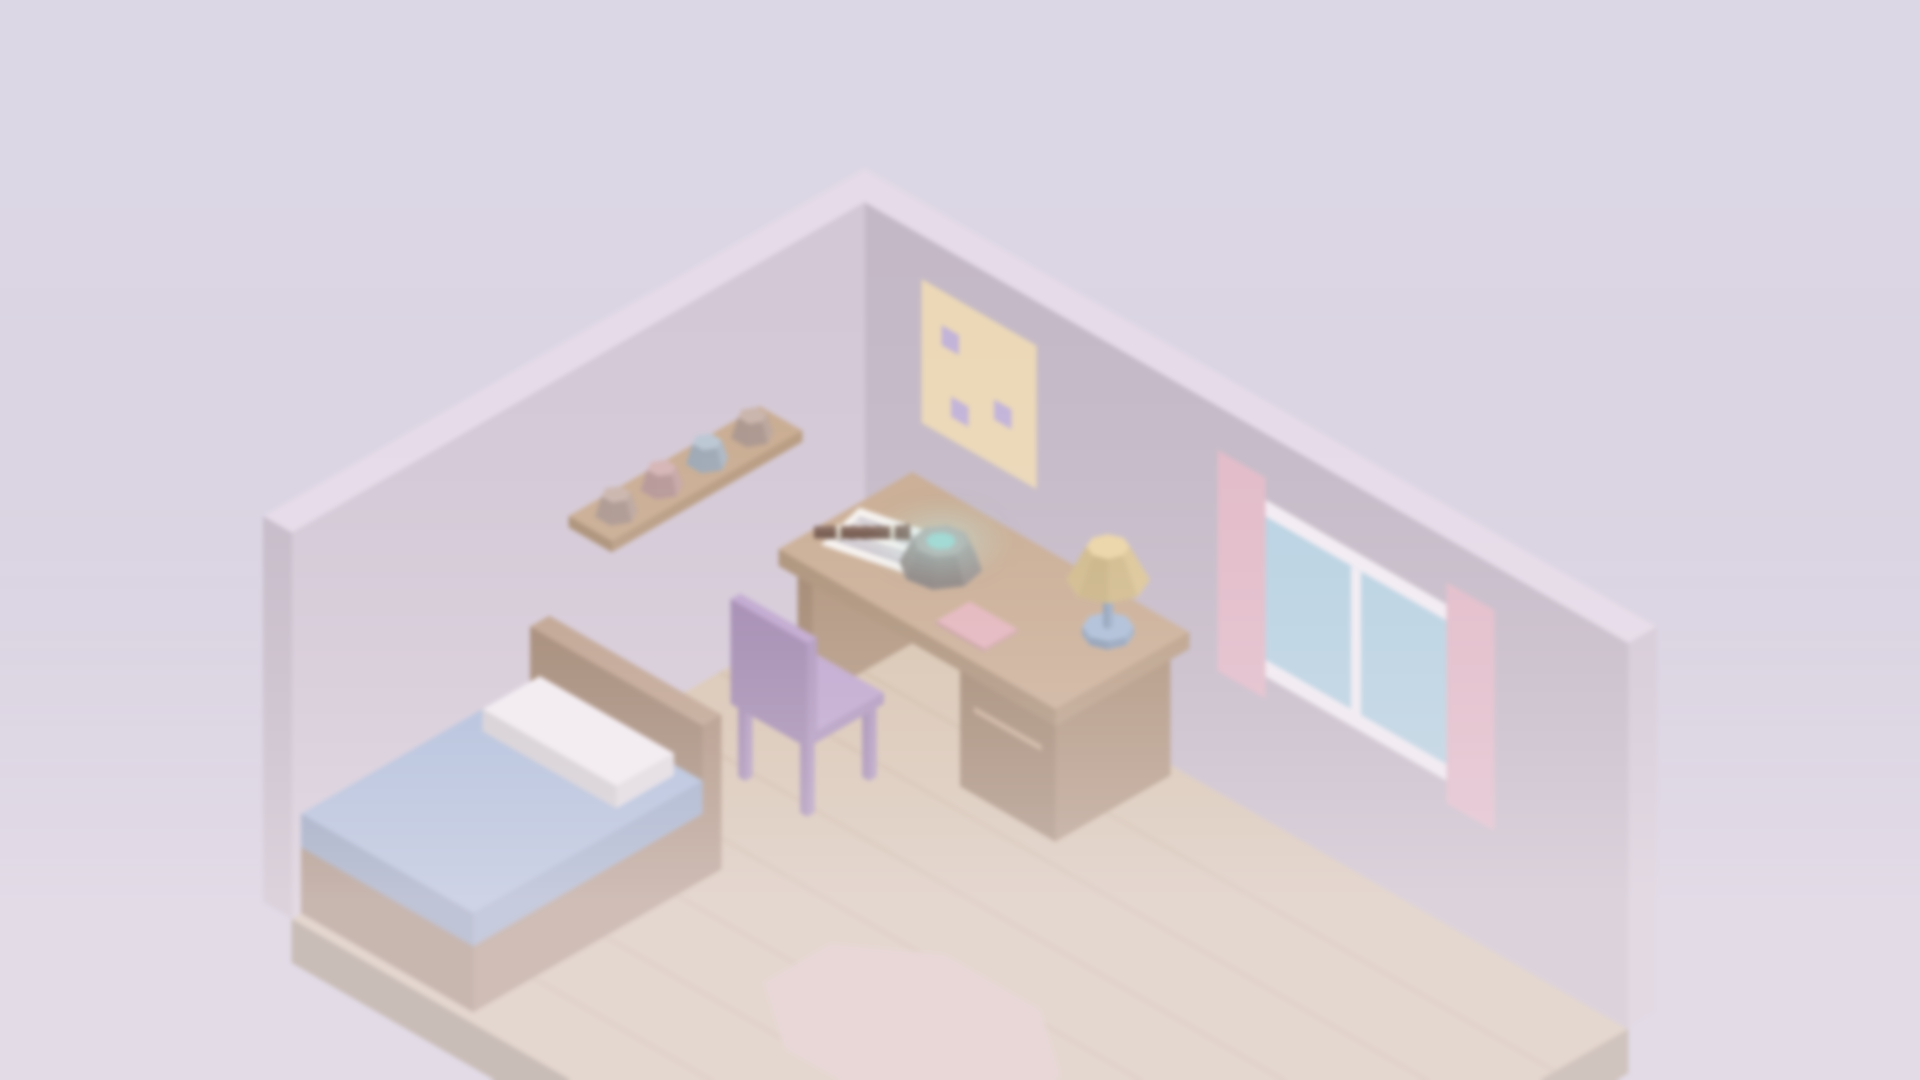
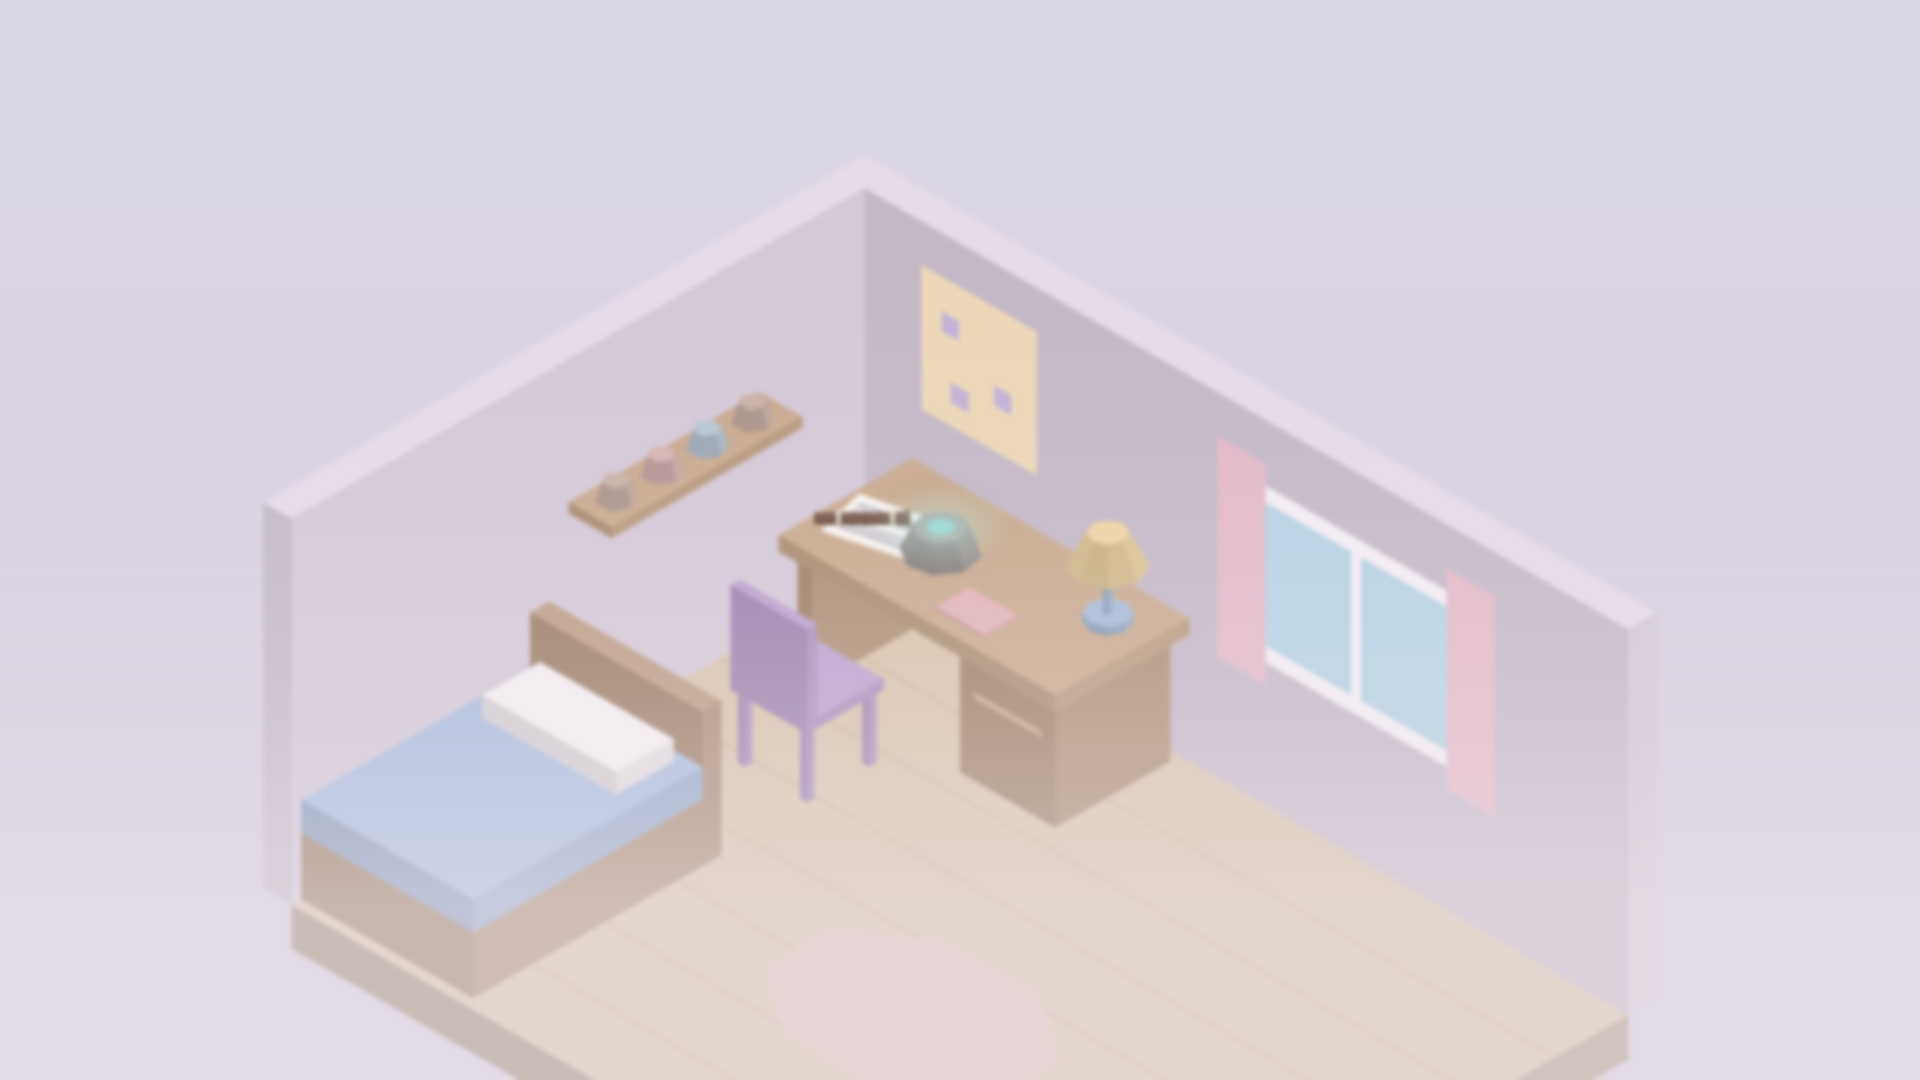
Keep small story buttons 24 apart and anchor the new backgrounds
Story buttons are smaller than the 48 standard, so the choices, the named-action
row and the Previous and Next row keep SMALL_BUTTON_GAP 24 between faces in any
direction, a 60 pitch with full 48 press areas. Ada's waking sprite and the rock
set the morning band. Needle's recorder room and concert hall rise 7 rows, with
Ada's playing sprite, so their bands end by row 293, and the four new
backgrounds join the run placement table at Gameplay's limit. The cockpit keeps
its 0.85 ship and the crop under Astra's questions.

diff --git a/art/tools/storybook.ts b/art/tools/storybook.ts
@@ -440,7 +440,15 @@ interface RoomOptions {
   figures?: { colours: Colours; pose: Pose };
   // Needle's recorder on its song sheet at the desk's left end.
   recorder?: boolean;
+  // Canvas rows to raise the whole room by, so its subject band ends by row 293.
+  lift?: number;
 }
+
+// Design px per logical canvas px (the canvas is the design frame at 360 / 390).
+const DESIGN_PER_LOGICAL = DESIGN.height / 360;
+// Needle's scenes rise 7 rows, so the desk's recorder and rock and the stage end by row 293 and
+// clear the strip above a story panel at Gameplay's longest page.
+const NEEDLE_LIFT = 7;
 
 // The recorder lying on the desk, mouthpiece to the left, along screen-horizontal (x - y).
 function recorder(
@@ -463,10 +471,10 @@ function recorder(
 
 function room(
   P: Palette,
-  { figures, glow, moon, recorder: withRecorder }: RoomOptions = {},
+  { figures, glow, moon, recorder: withRecorder, lift = 0 }: RoomOptions = {},
 ): Scene {
   const [nx, ny, wall] = [16, 12, 7];
-  const s = fitted(nx, ny, wall);
+  const s = fitted(nx, ny, wall, 12 - lift * DESIGN_PER_LOGICAL);
   s.solid(box(0, nx, 0, ny, -0.8, 0), P.slab!, 0, 0);
   const planks: Decal[] = [1, 2, 3, 4, 5, 6, 7].map((j) => [
     onZ(0.001, 0, nx, j * 1.5, j * 1.5 + 0.08),
@@ -1286,7 +1294,10 @@ function piano(s: Scene, P: Palette, x0: number, y0: number, z: number, key: num
 function concertHall(P: Palette): Scene {
   const [nx, ny, wall] = [22, 18, 8];
   const k = CONCERT_K;
-  const s = new Scene(k, [W / 2 - ((nx - ny) * R3 * k) / 2 + 30, 6 + wall * k]);
+  const s = new Scene(k, [
+    W / 2 - ((nx - ny) * R3 * k) / 2 + 30,
+    6 - NEEDLE_LIFT * DESIGN_PER_LOGICAL + wall * k,
+  ]);
   s.solid(box(0, nx, 0, ny, -0.8, 0), P.slab!, 0, 0);
   const boards: Decal[] = [];
   for (let j = 1; j < ny / 1.5; j++)
@@ -1475,8 +1486,8 @@ export const BACKGROUNDS: readonly Background[] = [
   {
     id: "story-ada-room-recorder",
     palette: ROOM,
-    build: (P) => room(P, { glow: glowAmount(0), recorder: true }),
-    subject: band(255, 300),
+    build: (P) => room(P, { glow: glowAmount(0), lift: NEEDLE_LIFT, recorder: true }),
+    subject: band(248, 293),
   },
   ...GLOW.map((glow, i) => ({
     id: `story-ada-room-recorder-glow-${i + 1}`,
@@ -1489,7 +1500,7 @@ export const BACKGROUNDS: readonly Background[] = [
     id: "story-concert-hall",
     palette: CONCERT,
     build: concertHall,
-    subject: band(195, 300),
+    subject: band(188, 293),
     overlays: [PLAYING_ID],
   },
   // Andromeda: the seedling tray on the potting table, spilled, then replanted.
@@ -1512,12 +1523,12 @@ export const BACKGROUNDS: readonly Background[] = [
     build: (P) => night(P, NIGHT_GLOW),
     subject: band(250, 300),
   },
-  // Ada stretching on the bed and the rock on the desk.
+  // Ada's waking sprite on the bed (rows 264 to 348) and the rock on the desk.
   {
     id: "story-ada-room-morning",
     palette: MORNING,
     build: morning,
-    subject: band(245, 350),
+    subject: band(255, 348),
     overlays: [WAKING_ID],
   },
 ];

diff --git a/art/storybook.md b/art/storybook.md
@@ -78,7 +78,9 @@ Full palettes are in the generator. Colours are before treatment d.
 - Needle opens and resolves in `story-ada-room-recorder`: the recorder lies on
   its song sheet at the desk's free left end, left of the rock, so the rock
   stays the brightest point. It closes in `story-concert-hall`, the stage seen
-  from the hall, with Ada playing in the spotlight.
+  from the hall, with Ada playing in the spotlight. The recorder room draws Ada's
+  room 7 rows higher and the concert hall rises 7 rows too, so both subjects end
+  by row 293.
 - Andromeda opens, resolves and closes in Grandma's garden with a potting table
   on the lawn by the house and a green tray of eight terracotta pots on it.
   `story-grandma-garden-spilled` (the opening, its branch pages and the
@@ -154,11 +156,11 @@ at most the panel top + 180; at 720x405 the limit is the panel top + 135.
 | `story-school-hallway`           | 184..290 | The notice board beside the near door                  |
 | `story-front-door`               | 175..280 | The coats and Penny's lead on their hooks by the door  |
 | `story-ada-room-night`           | 250..300 | The rock's glow on the desk; the sleep scene shares it |
-| `story-ada-room-morning`         | 245..350 | Ada stretching on the bed, the rock on the desk        |
+| `story-ada-room-morning`         | 255..348 | Ada's waking sprite on the bed, the rock on the desk   |
 | `cockpit`                        | 175..298 | The canopy dome                                        |
 | `cockpit-seated`                 | 175..298 | The canopy dome                                        |
-| `story-ada-room-recorder`        | 255..300 | The rock and the recorder on the desk                  |
-| `story-concert-hall`             | 195..300 | The stage, the piano and Ada in the spotlight          |
+| `story-ada-room-recorder`        | 248..293 | The rock and the recorder on the desk                  |
+| `story-concert-hall`             | 188..293 | The stage, the piano and Ada in the spotlight          |
 | `story-grandma-garden-spilled`   | 176..285 | The seedling tray on the potting table and the beds    |
 | `story-grandma-garden-replanted` | 176..285 | The seedling tray on the potting table and the beds    |
 
@@ -167,11 +169,13 @@ rows and the tallest panel's top, at 720x360 with insets 43/43/0/19, 844x390
 with the same insets, and 1280x720 (720x405). A star marks a clamped
 placement. Runs: the first launch (chapter one's opening, then the prologue),
 a visit (a waiting chapter scene, Ada's room, boarding), the empty visit and
-the jump home (night, morning, then the visit).
+the jump home (night, morning, then the visit). The four new backgrounds have
+no pages yet; their rows assume a chapter page at Gameplay's limit (218
+characters, the heading and two choices).
 
 | Background, runs                                                    | 720x360, insets                 | 844x390, insets                 | 1280x720                        |
 | ------------------------------------------------------------------- | ------------------------------- | ------------------------------- | ------------------------------- |
-| `story-grandma-garden`, first launch                                | y -180*: 15..110, top 113       | y -180*: 15..110, top 113       | y -135*: 60..155, top 161       |
+| `story-grandma-garden`, first launch                                | y -180*: 19..105, top 113       | y -180*: 19..105, top 113       | y -135*: 64..150, top 161       |
 | `story-park`, first launch                                          | y -138: 82..147, top 229        | y -134: 86..151, top 237        | y -110: 110..175, top 285       |
 | `story-ada-room-unpolished`, first launch                           | y -162: 93..138, top 231        | y -162: 93..138, top 231        | y -135*: 120..165, top 279      |
 | `story-ada-room`, every visit, first launch, empty visit, jump home | y -171: 84..129, top 213        | y -171: 84..129, top 213        | y -135*: 120..165, top 261      |
@@ -184,14 +188,20 @@ the jump home (night, morning, then the visit).
 | `story-front-door`, visit, chapter 3 opening                        | y -171: 4..109, top 113         | y -171: 4..109, top 113         | y -135*: 40..145, top 161       |
 | `story-park`, visit, chapter 3 resolution                           | y -180*: 40..105, top 143       | y -176: 44..109, top 153        | y -135*: 85..150, top 201       |
 | `story-ada-room-night`, jump home                                   | y -146.5: 103.5..153.5, top 257 | y -146.5: 103.5..153.5, top 257 | y -122.5: 127.5..177.5, top 305 |
-| `story-ada-room-morning`, jump home                                 | y -169: 76..181, top 257        | y -169: 76..181, top 257        | y -135*: 110..215, top 305      |
+| `story-ada-room-morning`, jump home                                 | y -173: 82..175, top 257        | y -173: 82..175, top 257        | y -135*: 120..213, top 305      |
+| `story-ada-room-recorder`, new chapter at the limit                 | y -180*: 68..113, top 113       | y -180*: 68..113, top 113       | y -135*: 113..158, top 161      |
+| `story-concert-hall`, new chapter at the limit                      | y -180*: 8..113, top 113        | y -180*: 8..113, top 113        | y -135*: 53..158, top 161       |
+| `story-grandma-garden-spilled`, new chapter at the limit            | y -174: 2..111, top 113         | y -174: 2..111, top 113         | y -135*: 41..150, top 161       |
+| `story-grandma-garden-replanted`, new chapter at the limit          | y -174: 2..111, top 113         | y -174: 2..111, top 113         | y -135*: 41..150, top 161       |
 
-Every band clears its panel at these views except the cockpit's: under
-Astra's three questions (panel top 93 at 360-high views, 141 at 720x405) the
-123-row canopy is taller than the 93 strip, and the clamp holds the canvas
-at its lowest, so 25 rows of the dome's underside go under the panel and 5
-above the view, and 22 under the panel at 720x405. At 0.6 with the canopy
-focus 15 rows higher the dome spans about 175..262 and clears both.
+Every band in the current runs clears its panel at these views except the
+cockpit's under Astra's three questions, a crop kept by design: the ship stays
+at 0.85, and with the panel top at 93 at 360-high views (141 at 720x405) the
+123-row dome loses 25 rows under the panel and 5 above the view, and 22 under
+the panel at 720x405. Every other cockpit page shows the whole dome. At
+Gameplay's limit the four new backgrounds clear too: Needle's recorder room
+and concert hall rise 7 rows so their bands end by row 293, the lowest visible
+row under a 218-character page at 360-high views.
 
 ## Ada's sprites
 
@@ -205,7 +215,7 @@ and `sampling: "nearest"`.
 
 | Id                  | Size (px) | `scale` | `at`       | Background               | Pose                                        |
 | ------------------- | --------- | ------- | ---------- | ------------------------ | ------------------------------------------- |
-| `story-ada-playing` | 44 x 56   | 1       | (480, 228) | `story-concert-hall`     | Playing the recorder, feet on the spotlight |
+| `story-ada-playing` | 44 x 56   | 1       | (480, 221) | `story-concert-hall`     | Playing the recorder, feet on the spotlight |
 | `story-ada-waking`  | 48 x 42   | 2       | (249, 264) | `story-ada-room-morning` | Stretching and yawning, kneeling in bed     |
 
 - Scale: one sprite px is 1 logical px in the concert hall and 2 in Ada's room,
@@ -317,8 +327,8 @@ night haze (coat `#b57100` before treatment), and morning
   stretching, the `story-ada-waking` sprite.
 
 On the 844 by 390 phone with insets the morning page's panel top is at logical
-y 257 and its background at canvas top -169: the rock's top (109), Ada's sprite
-(top 95, chin 139) and Penny's head (194) all clear the panel. The sleep scene
+y 257 and its background at canvas top -173: the rock's top (105), Ada's sprite
+(top 91, chin 135) and Penny's head (190) all clear the panel. The sleep scene
 shows no panel and keeps the night page's placement (-146.5), so both figures
 stay in view (Ada 206.5, Penny 261.5).
 

diff --git a/art/layout.md b/art/layout.md
@@ -541,7 +541,7 @@ Constants: `STORY_PANEL` and `STORY_BACKGROUND`, `storyPage.ts`;
 | Name tab       | `CONVERSATION_BOX.tab`: 20 high, label width + `2 * SPACING.markGap`, 1 ink edge, radius 2, `TYPE.label` in ink                                                                                                                                                                              | The speaker's tab colour ([Controls](controls.md#conversation-box)); the column's first line, `SPACING.gap` above the paragraph                                                                                                                                                                                |
 | Portrait       | `STORY_PANEL.portrait`: the 32 storybook frame at 2x (64), nearest neighbour, in a 68 frame (2 ink edge, navy `#262b44` face)                                                                                                                                                                | Floated on the column top: at the inner right for every speaker but Ada, at the inner left for Ada; never mirrored                                                                                                                                                                                             |
 | Portrait gap   | `SPACING.gap` to the text, `SPACING.rowGap` below                                                                                                                                                                                                                                            | The name tab and the paragraph wrap beside the frame, then take the full measure below it                                                                                                                                                                                                                      |
-| Choices        | `STORY_BUTTON` secondary, filling the choice column, stacked from its top, faces `SMALL_BUTTON_GAP` 24 apart (a 60 pitch)                                                                                                                                                                    | `hitAround` grows a 36 face 9 per side (54), so neighbouring press areas stay 6 apart                                                                                                                                                                                                                          |
+| Choices        | `STORY_BUTTON` secondary, filling the choice column, stacked from its top, faces `SMALL_BUTTON_GAP` 24 apart (a 60 pitch)                                                                                                                                                                    | `hitAround` grows a 36 face 9 per side (54), so neighbouring press areas stay 6 apart, each at least `HIT_RULE.minTarget` 48                                                                                                                                                                                   |
 | Page controls  | One row on the choice column's bottom: Previous (secondary) at the left, Next (primary) at the right, each `(choice column - 24) / 2` wide, `SMALL_BUTTON_GAP` 24 apart                                                                                                                      | 102 to 119 wide; Next, Continue and Previous fit on one line                                                                                                                                                                                                                                                   |
 | Named action   | A page's named action ("Pick up the rock.") in Next's place; when its label + 32 exceeds the half width it fills the choice column on its own row, `SMALL_BUTTON_GAP` 24 above the Previous row                                                                                              | "Touch the glow.", "Pick up the rock." and "Let's find your holodisk." take the full row                                                                                                                                                                                                                       |
 | Scroll         | Only the text column scrolls, when the panel reaches its top cap; it reserves `SCROLL` 14 on its right (6 gap, 8 track, thumb inset 1)                                                                                                                                                       | Text never shrinks and never paginates; the choices and page controls stay fixed                                                                                                                                                                                                                               |
@@ -577,18 +577,20 @@ Panel height and top by page:
 | Gameplay's longest page (218) with heading and choices | 228, top 113    | 228, top 113    | 208, 136 | 228, 161 |
 | Astra's three questions with Continue (the tallest)    | 248, top 93     | 248, top 93     | 248, 96  | 248, 141 |
 
-The 36 story buttons are smaller than the 48 standard, so their faces keep
-`SMALL_BUTTON_GAP` 24 apart (`BUTTON_GAP` 16 is the standard faces' gap; both
-are the button gap rule, to implement). The garden opening's choice column is
-56 + 24 + 56 + 24 + 36 = 196 (both labels wrap) beside its text column (36
-heading, then six lines in the 349 column, 192, or five in the wider ones,
-166); at 844x390 without insets the first label fits one line (176). The
-218-character page is six lines in the 349 column and five in the wider ones.
-Astra's three questions with Continue need 3 * 36 + 2 * 24 + 24 + 36 = 216, so
-248 with the padding, under the 280.5 cap at 360-high views. All 55 pages of
-Gameplay's copy fit under the top cap at every screen above, so no shipped page
-scrolls; Gameplay's limits (220 characters, three choices of at most 36) hold
-it there.
+Story buttons follow the button gap rule (to implement): buttons smaller than
+the 48 standard keep `SMALL_BUTTON_GAP` 24 between faces in any direction,
+standard buttons `BUTTON_GAP` 16 side by side and `STACK_BUTTON_GAP` 8 stacked.
+The 36 story buttons are small, so the choices, a full-row named action and the
+page-control row stack 24 apart, and Previous and Next sit 24 apart. The garden
+opening's choice column is 56 + 24 + 56 + 24 + 36 = 196 (both labels wrap; 176
+at 844x390 without insets, where the first fits one line) beside its text
+column: the 36 heading and six lines in the 349 column (192), or five in the
+wider ones (166). The 218-character page is six lines in the 349 column and
+five in the wider ones. Astra's three questions with Continue need 3 * 36 + 2 *
+24 + 24 + 36 = 216, so 248 with the padding, the tallest page, under the 280.5
+cap at 360-high views: all 55 pages of Gameplay's copy fit without scrolling,
+and Gameplay's limits (220 characters, three choices of at most 36) hold it
+there.
 
 Page structure:
 
@@ -861,5 +863,5 @@ Tests:
   column scrolls only the text column, with the choices and page controls in
   place.
 - Every story choice and page control is 36 drawn on one line (56 on two),
-  `SMALL_BUTTON_GAP` 24 from its neighbours, with
+  `SMALL_BUTTON_GAP` 24 from its neighbours in every direction, with
   a press area of at least 48 per axis; the story text is 18 on 26.
